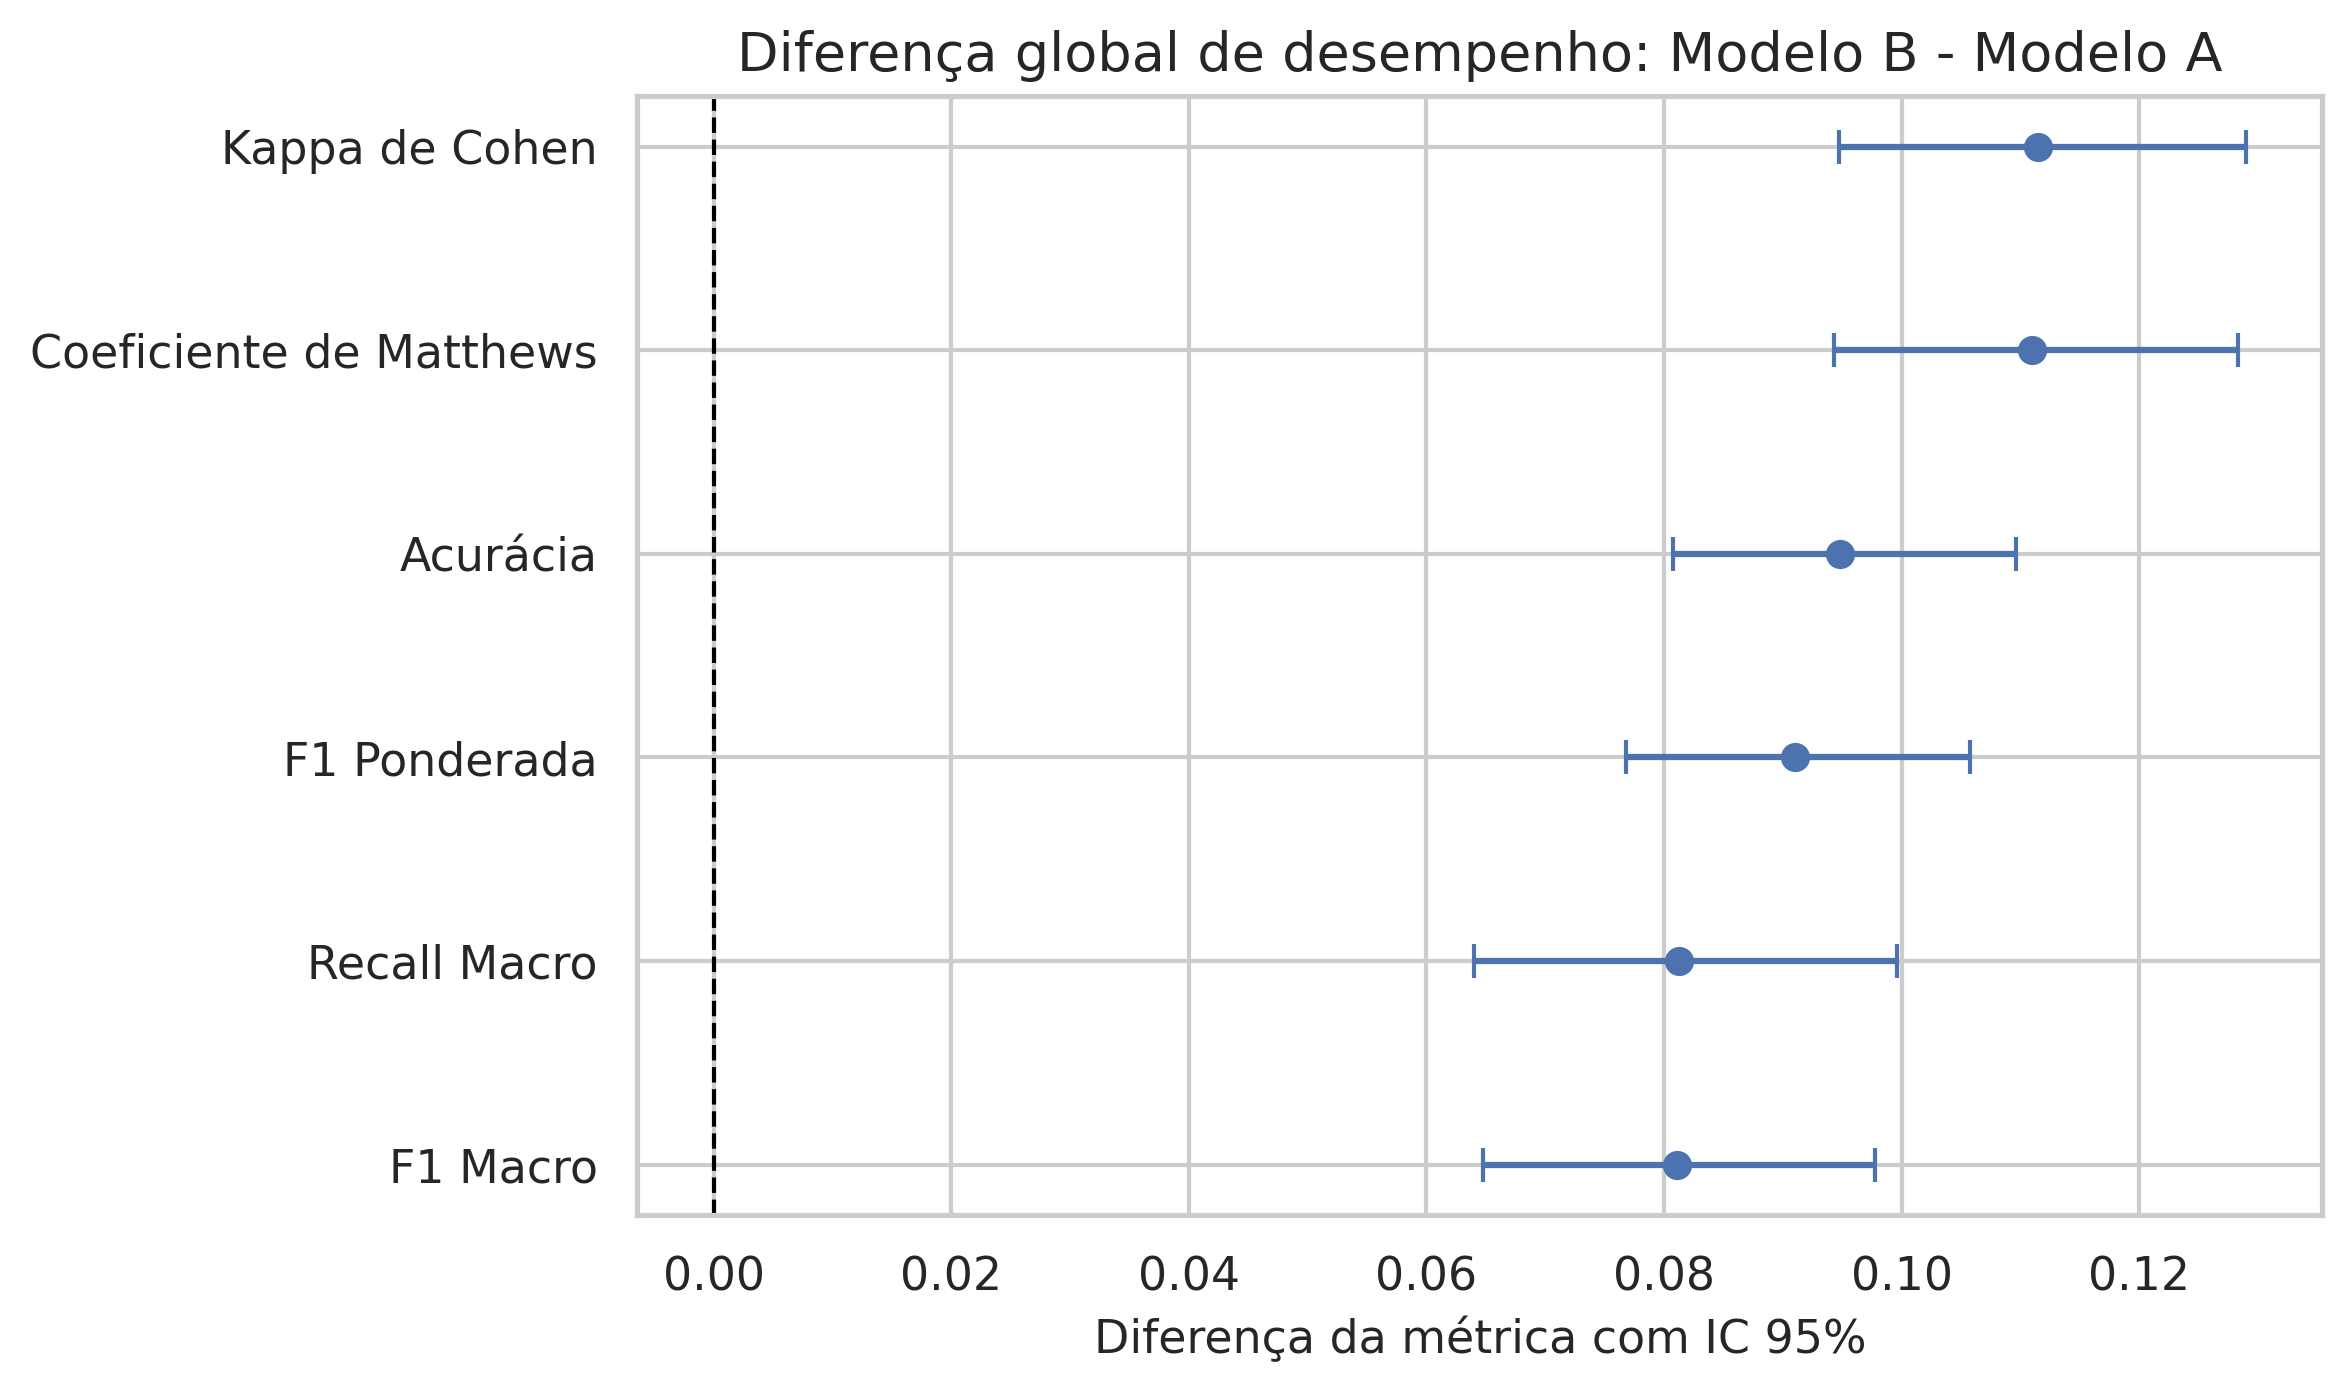
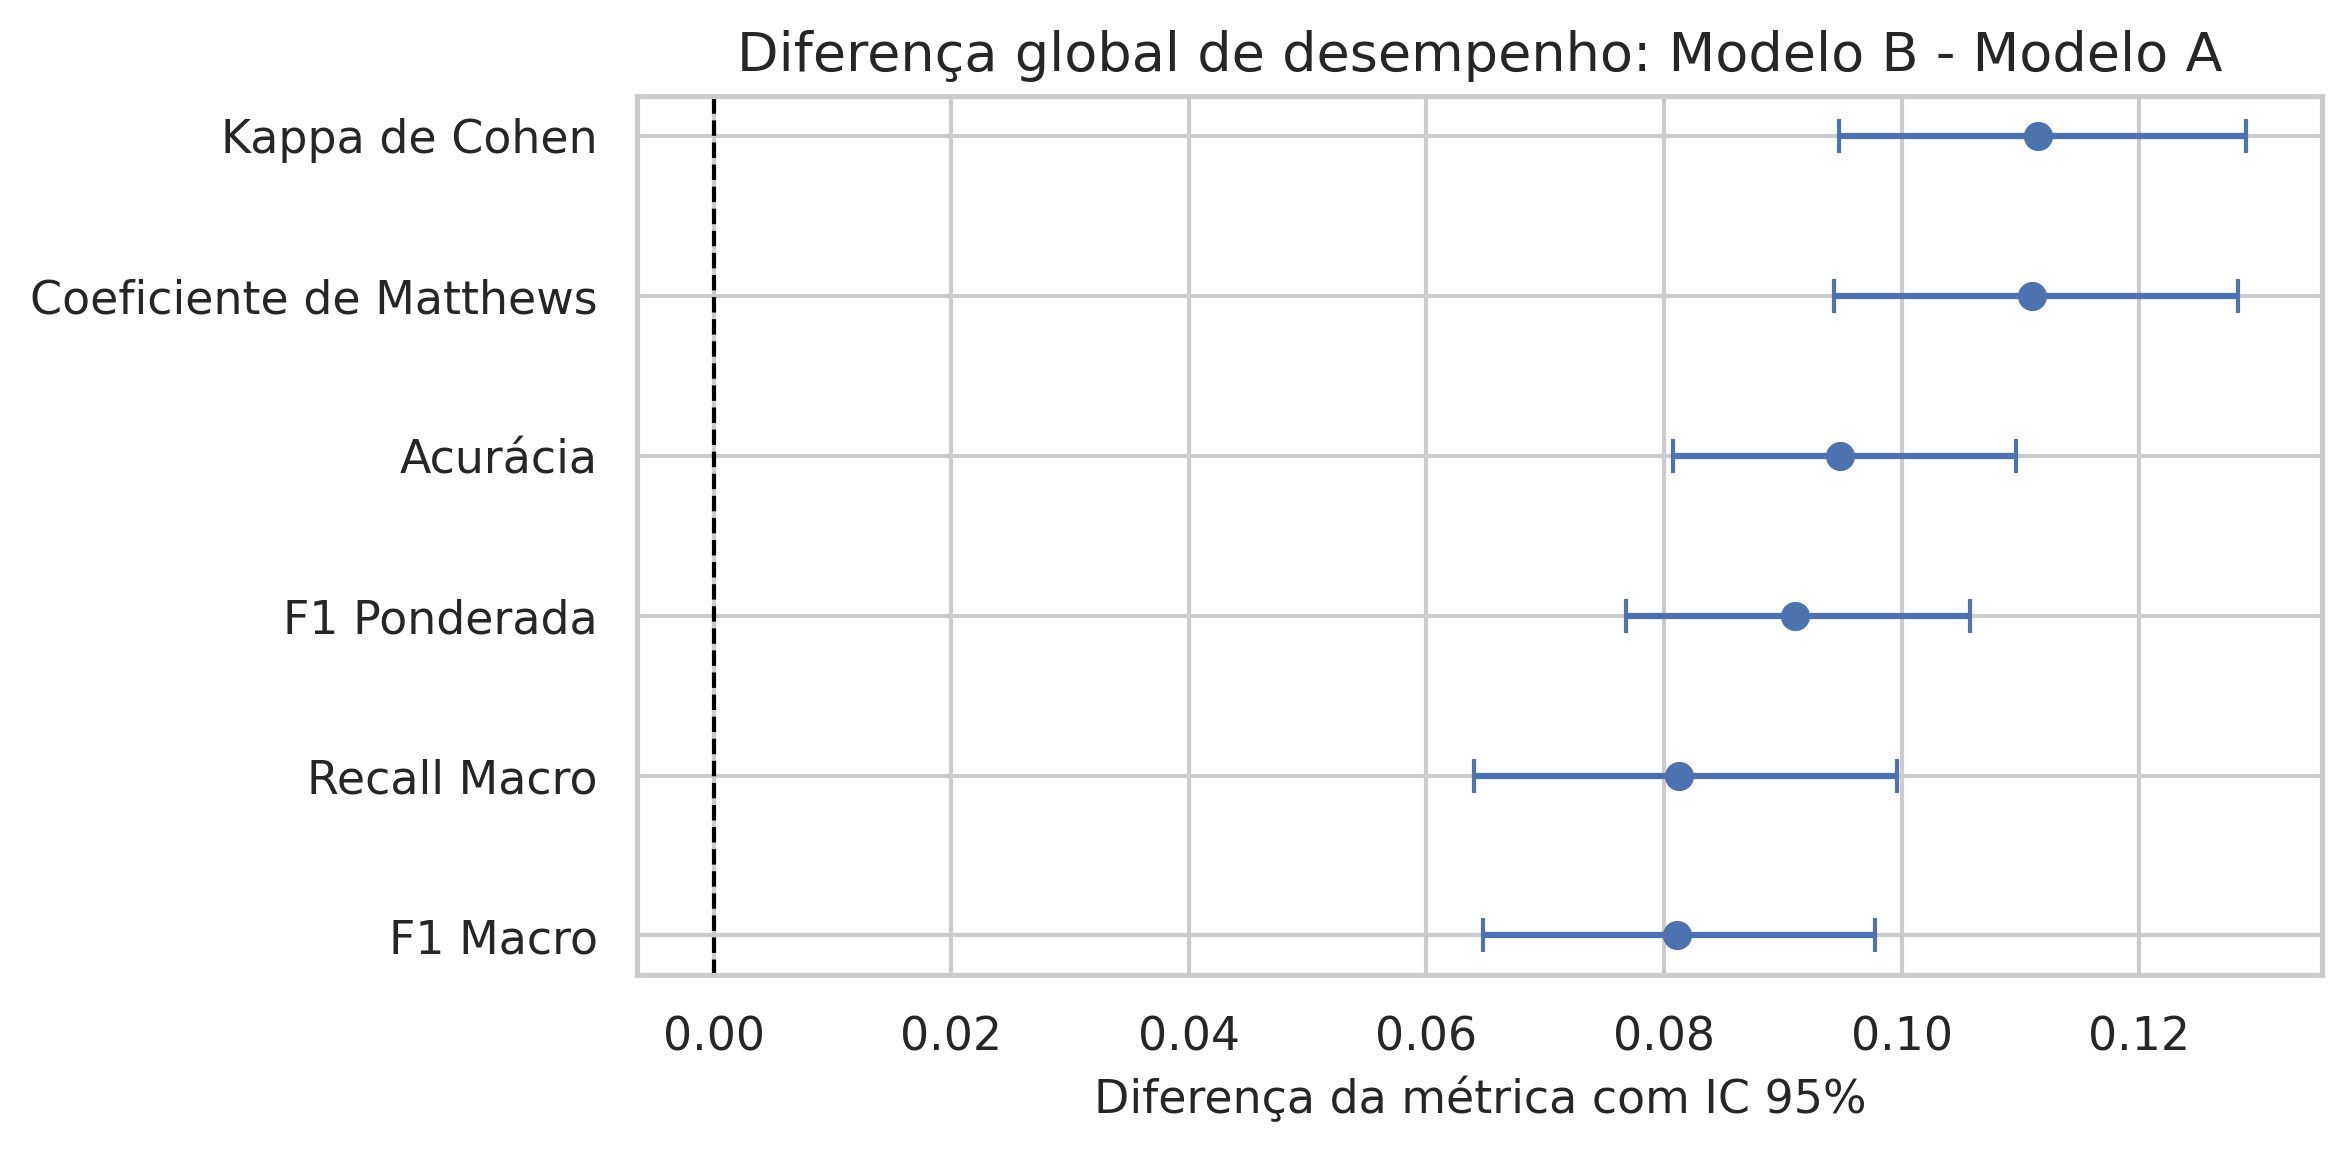
Update Figures and Tables + Add requirements.txt

diff --git a/notebooks/functions.py b/notebooks/functions.py
@@ -9,7 +9,6 @@ from typing import Any, Dict, Iterable, Union
 from matplotlib.figure import Figure
 from sklearn.metrics import (
     accuracy_score,
-    balanced_accuracy_score,
     precision_score,
     recall_score,
     f1_score,